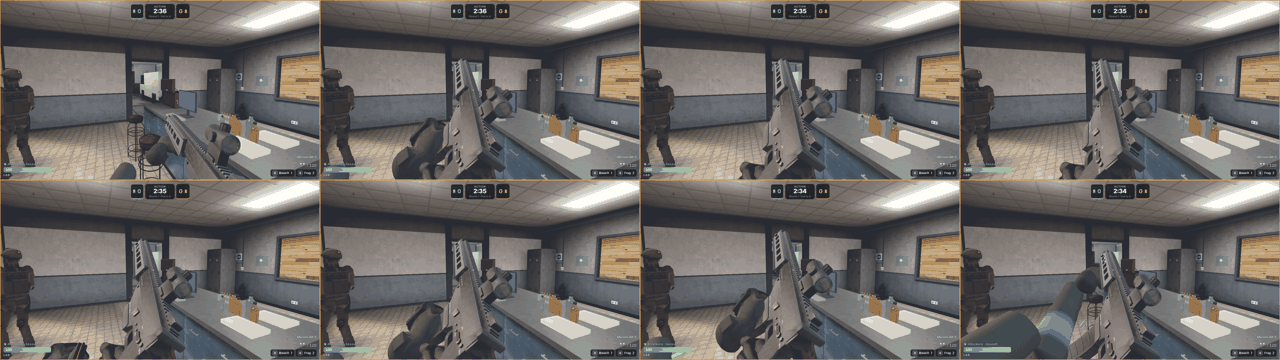
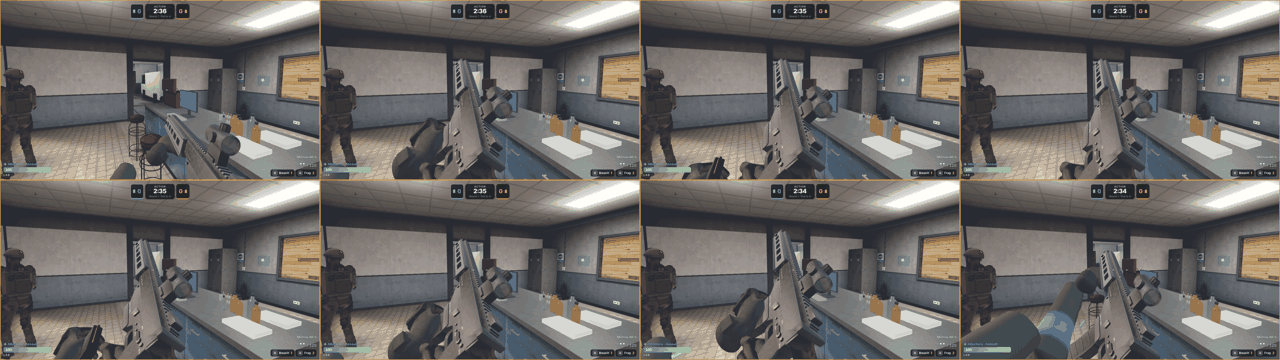
Breachline weapons r4: the old magazine drops to the frame edge and the fresh one rises from there; STATUS scores and test results
Claude-Session: https://claude.ai/code/session_015jvJA8Hz6PVC7gGcsaXZs3

diff --git a/src/games/breachline/render/hero/reload.ts b/src/games/breachline/render/hero/reload.ts
@@ -52,16 +52,18 @@ function magReload(t: number, B: Record<string, number[]>, empty: boolean, pisto
   const drop = ease(t, o, o + (fe - o) * 0.7), rise = ease(t, fe, i - 0.05), insert = ease(t, i - 0.05, i), slam = ease(t, i + (s - i) * 0.5, s);
   const draw = ease(t, r, o);
   let y = -0.1 * draw, z = 0, rx = 0, rz = 0, x = 0;
-  if (t >= o && t < fe) { y += -0.4 * drop; x = -0.12 * drop; z = 0.08 * drop; rz = 0.7 * drop; rx = -0.5 * drop; }
+  // Away to the frame's lower left, turned so its side shows, rather than out of view.
+  if (t >= o && t < fe) { y += -0.17 * drop; x = -0.13 * drop; z = 0.05 * drop; rz = 0.95 * drop; rx = -0.35 * drop; }
   if (t >= fe) {
     const away = 1 - rise;
-    y = -0.07 * (1 - insert) - 0.012 * insert * (1 - slam) - 0.4 * away; x = -0.12 * away; z = 0.08 * away; rz = 0.7 * away; rx = -0.5 * away + 0.15 * (1 - insert) * rise;
+    y = -0.07 * (1 - insert) - 0.012 * insert * (1 - slam) - 0.17 * away; x = -0.13 * away; z = 0.05 * away; rz = 0.95 * away; rx = -0.35 * away + 0.15 * (1 - insert) * rise;
     // A short wind-up before the slam.
     if (t > i && t < s) y -= 0.006 * pulse(t, i, i + (s - i) * 0.5);
   }
   if (t >= s) { y = 0.0015 * pulse(t, s, s + 0.04); x = z = rx = rz = 0; }
   f.magP = [x, y, z]; f.magR = [rx, 0, rz];
-  f.magOn = !(t > o + (fe - o) * 0.75 && t < fe + (i - fe) * 0.12);
+  // The spent magazine is let go at the frame edge and the fresh one comes up from the vest in the same place.
+  f.magOn = !(t > o + (fe - o) * 0.85 && t < fe + (i - fe) * 0.06);
   // Support hand: from the hold to the magazine by the release, with it until seated, then home or to the handle.
   const toMag = ease(t, 0, r * 0.95), offMag = ease(t, s + 0.02, s + 0.1);
   let hold = 1 - toMag, mag = toMag * (1 - offMag), handle = 0;

diff --git a/docs/evidence/breachline/hero/STATUS.md b/docs/evidence/breachline/hero/STATUS.md
@@ -30,6 +30,7 @@ r4: lighting fix pushed; then hip framing (lower right, canted 15° so the side 
 | Round | E | F | Evidence |
 | --- | --- | --- | --- |
 | Baseline | 1 | 1 | `docs/evidence/breachline/05-breach.png`, `overhaul/phase-0/lab-bench-high.png`: about 30 boxes, slab arms, a blue block for a wrist band; fighters are six rigid box groups |
+| r4 | 6 | — | `r4/lighting-after-high.png`, `r4/lighting-after-low.png`, `r4/game-ar-hip-ads.png`, `r4/ar-markings.png`, `r4/gloves.png`, `r4/game-ar-reload-*.png`. The weapon in hand now reads in the game, with polymer, anodised aluminium and steel separate, in the Lab, the corridor and on Low. The hip framing shows the side and the support hand; the AR-5 carries real markings; the gloves have gussets and guards. Why 6, not 8: in the game's reload the magazine is visible only briefly at the frame's lower edge, so the beats do not read as distinct poses; the aimed optic housing is still heavy; there is no fine normal detail per material (machining lines, cast texture); only the AR-5 had this round; the other five are still at the r2 standard (about 5). |
 | r3 | 5 | — | `r3/game-*-hip-ads.png` (AR, Halden, Corvin, P-11 in the Lab and corridor under the real light), `r3/game-*-reload-*.png`, `r3/studio-reload-*.png`, `r3/studio-ar-reload-insert-closeup.png`. Reloads now read on screen: the rifle tips up and cants so the magazine well comes into view and the support hand is seen seating a magazine; the shotgun shuttles red shells from the side saddle into the port; the pistol's support hand comes over the top to rack. The shotgun's aimed view now shows the ghost ring and the glowing front post centred. Still 5, not higher: surfaces are clean but plain next to MW2's textured guns (no markings, no normal-mapped detail, little colour variation); gloves are soft lumps at close range, worst in the pistol's aimed grip; the support hand takes an odd path back after the AR's tactical reload; the magazine is out of view while it is being fetched. |
 | r2 | 5 | 1 | `r2/*-turntable.png`, `r2/*-fp-hip-ads-orbits.png`. All six weapons now exist as distinct designs with their own sights (tube dot, holographic with ring reticle, mini reflex, ghost ring with bead, variable scope, three-dot irons), all held by the gloved hands within budget. Why only 5: weapons are clean but plain (flat panels, little surface break-up, no markings); in-hand frames only checked in the studio for five of the six; pistol hands look like mittens at aimed range; magazine changes are still largely off-screen. |
 | r1 | 4 | 1 | `r1/ar-game-hip-ads.png`, `r1/ar-turntable-*.png`, `r1/ar-reload-*-strip.png`. The AR-5 is a real rifle shape with bevelled parts, a slotted handguard, a rail, an optic, edge wear and cavity AO, and gloved five-finger hands hold it. Why only 4: five of six weapons are still missing; in the reload the magazine is mostly out of frame; the gloves read soft and lumpy at close range; the hip pose crowds the right edge; the materials are flat under the game's light. F is unchanged. |
@@ -151,11 +152,15 @@ steel now separate in all three.
 
 ## Tests
 
+r4 (final this session): `npx tsc --noEmit` clean; `npx vitest run` whole suite: 5346 passed, 7 skipped, 0 failed (271 files). Breachline browser tests 7/7. The two-device online test failed once ("the host hits the guest": the guest's health did not drop within 10 s), then passed on rerun. That is timing-dependent under two software-rendered pages, but it could also mean the new viewmodel's per-frame cost slows the host. Worth measuring on a real machine.
+
+
 r1: `npx tsc --noEmit` clean; `npx vitest run tests/games/breachline` 53 passed; Breachline browser tests and the
 two-device online test 7/7 passed with the new viewmodel in the game.
 
 ## Still weak
 
+- **Row E is 6, below the gate of 8.** What remains, in order: reload beats as distinct, readable poses with the magazine in view; thinner optic housings and a tinted lens; fine normal detail per material; then bring the five other weapons up to the AR-5 one at a time (markings, small parts, shotgun walnut and checkering), each with its own rounds.
 - The other five weapons are below the AR's detail: flat panels, few small parts, no markings.
 - The glove mesh takes about 0.7 s to build (once).
 - Pistol hands read as mittens when aimed.
